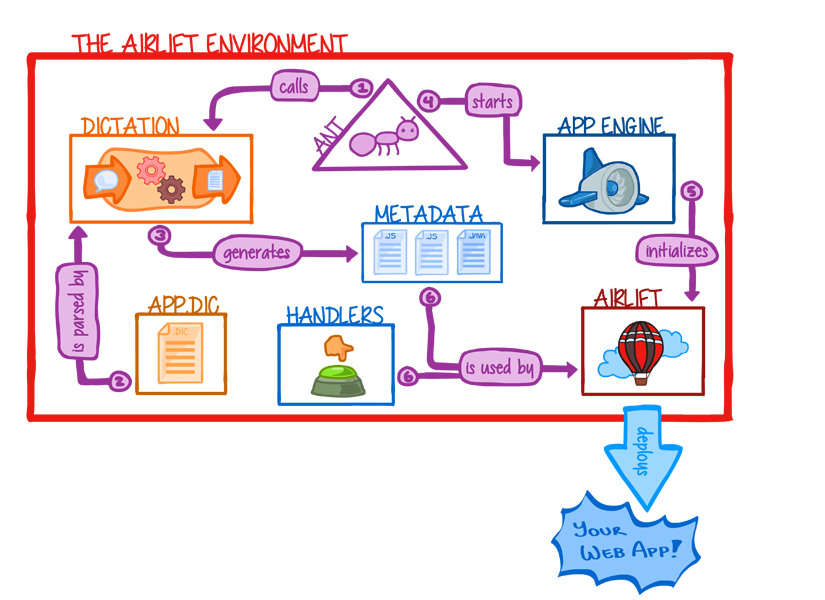
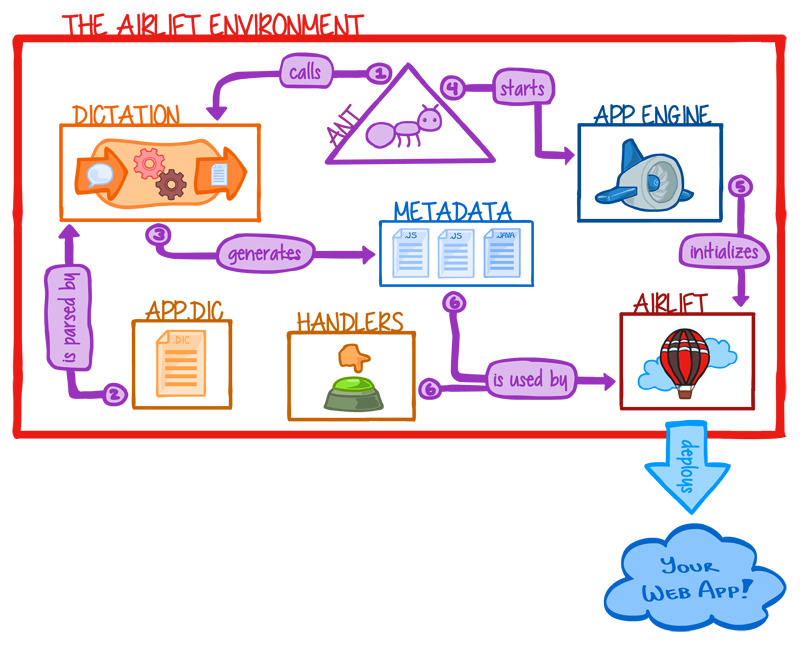
updated manual/getting_started

diff --git a/_site/manual/getting_started.html b/_site/manual/getting_started.html
@@ -82,7 +82,7 @@
 <li><strong>Infrastructure as a Service (IaaS)</strong> are the outsourced, on-demand resources that provide computing power through servers, storage, network, and operating systems.</li>
 </ul>
 
-<p><img alt='' src='/images/manual/CloudComputing_logos_Web.png' /></p>
+<p><img src='/images/manual/CloudComputing_logos_Web.png' alt='' /></p>
 
 <p>At the lowest level, IaaS provides computing power that one can rent. By outsourcing hardware, one does not need to fret over the investment, maintenance, power, and cooling of servers and networks. IaaS is how data is stored on the cloud. An example is Google Cloud Storage, which ensures that your data is safe, secure, and accessible. Since your Google Spreadsheets and Calendar reminders are stored online in the cloud, if something were to obliterate your laptop, thankfully, your data would not be lost.</p>
 
@@ -118,8 +118,6 @@
 <p id='A_Brief_History' />
 <h1 id='12_a_brief_history'>1.2 A Brief History</h1>
 
-<p>[Image to come: Illustration of frustrated Bediako.]</p>
-
 <p>Airlift originated as the solution to the frustrations of a developer. At the time, Java web application frameworks, such as Apache Struts, were not up to par with the developer&#8217;s needs. There had to be a better and faster way to build applications. He traded in Java for a dynamic programming language, JavaScript. He then began excitedly experimenting with Hannibn(?), capable of building web applications by using Java applications on servlets called Rhino. It didn&#8217;t take long for the developer to successfully utilize the benefits of this servlet, and he realized the potential of taking the entire platform and putting it on the cloud environment. No more would he need to defeat the obstacles of setting up his own server, buying his own hardware, and dealing with web hosting providers. No more would he need to wait ages for his server to be set up and for his applications to deploy. By hosting a platform on the cloud, all these hassles would be taken care of. Thus, Airlift was born!</p>
 
 <p>Airlift was designed to meet the following goals:</p>
@@ -133,8 +131,6 @@
 </ul>
 
 <p>Airlift, which satisfies the above specifications, is being successfully deployed today. Lucid Technics is currently building and adding to Airlift, expecting to release version 2.0 by the end of 2013. Future developments include making Dictation more robust and feature-rich, and continuing the tight integration to Google App Engine. Any developer interested in rapidly putting together scalable applications on Google App Engine should definitely check out Airlift, especially if they are interested in using JavaScript on server side. Lucid Technics aspires to make Airlift useful, reliable, and helpful to developers around the global network.</p>
-
-<p>[Image to come: Illustration of happy Bediako with Airlift.]</p>
 <p id='Airlift_Concepts' />
 <h1 id='13_airlift_concepts'>1.3 Airlift Concepts</h1>
 
@@ -145,14 +141,28 @@
 <p>This advanced code generation apparatus enables rapid deployment of web applications, thereby allowing one to spend less time on infrastructure code, and more time on business workflow requirements.</p>
 
 <h2 id='the_airlift_environment'>The Airlift Environment</h2>
+<img src='/images/manual/Airlift_Charts_Web.png' style='float:left' />
+<p>Airlift requires Java, Ant, and the App Engine SDK. Google App Engine supports apps written in several languages, but it only provides runtime environments for four: Java, Python, PHP, and Go. Google App Engine allows apps to be built in any JVM-based interpreter or compiler, such as JavaScript. Airlift incorporates <a href='https://developer.mozilla.org/en-US/docs/Rhino'>Rhino</a>, an open source JavaScript engine, to convert JavaScript scripts into Java classes. This way, any apps built with Airlift can be easily hosted and deployed on Google App Engine.</p>
+<br /><br /><br /><br /><br />
+<p>Airlift makes the web development process simpler. The developer only needs to write a dictation file describing business logic and the handlers. The Airlift framework takes care of the rest. When deploying a web app, the following steps are executed:</p>
 
-<p><img alt='' src='/images/manual/Airlift_Chart_Desktop_Web.png' /></p>
+<ol>
+<li>Ant acts as the orchestrator for the whole process. It first calls <a href='http://www.lucidtechnics.com/projects/dictation.html'>Dictation</a>, a language for describing business applications.</li>
 
-<p><img alt='' src='/images/manual/Airlift_Chart_with_GAE_Web.png' /></p>
+<li>app.dic, a document describing the business logic in English, is parsed by Dictation.</li>
 
-<p>The previous diagram shows how Airlift works with Google App Engine. Google App Engine supports apps written in several languages, but it only provides runtime environments for four: Java, Python, PHP, and Go. Google App Engine allows apps to be built in any JVM-based interpreter or compiler, such as JavaScriptIn order to run JavaScript. Airlift incorporates <a href='https://developer.mozilla.org/en-US/docs/Rhino'>Rhino</a>, an open source JavaScript engine,<br />Rhino = a JavaScript interpretter written in Java, to convert JavaScript scripts into Java classes. This way, any apps built with Airlift can be easily hosted and deployed on Google App Engine.</p>
+<li>Dictation converts the app.dic into a coding language and generates metadata: meta/r files, meta/a files, and AppProfile.java.</li>
 
-<p><img alt='' src='/images/manual/Airlift_Environment_Web.png' /></p>
+<li>Ant starts Google App Engine, running a local server.</li>
+
+<li>Google App Engine initializes Airlift, a .jar file which contains a servlet called RestServlet.</li>
+
+<li>Airlift deploys your web application, hosted on the cloud!</li>
+</ol>
+
+<p>The following diagram illustrates what the Airlift environment contains and how it deploys a web application.</p>
+
+<p><img src='/images/manual/Airlift_Environment_Web.png' alt='' /></p>
 
 <h2 id='javascript_functional_programming'>JavaScript Functional Programming</h2>
 

diff --git a/_site/manual/index.html b/_site/manual/index.html
@@ -87,7 +87,7 @@
 <li><strong>Infrastructure as a Service (IaaS)</strong> are the outsourced, on-demand resources that provide computing power through servers, storage, network, and operating systems.</li>
 </ul>
 
-<p><img alt='' src='/images/manual/CloudComputing_logos_Web.png' /></p>
+<p><img src='/images/manual/CloudComputing_logos_Web.png' alt='' /></p>
 
 <p>At the lowest level, IaaS provides computing power that one can rent. By outsourcing hardware, one does not need to fret over the investment, maintenance, power, and cooling of servers and networks. IaaS is how data is stored on the cloud. An example is Google Cloud Storage, which ensures that your data is safe, secure, and accessible. Since your Google Spreadsheets and Calendar reminders are stored online in the cloud, if something were to obliterate your laptop, thankfully, your data would not be lost.</p>
 
@@ -123,8 +123,6 @@
 <p id='A_Brief_History' />
 <h1 id='12_a_brief_history'>1.2 A Brief History</h1>
 
-<p>[Image to come: Illustration of frustrated Bediako.]</p>
-
 <p>Airlift originated as the solution to the frustrations of a developer. At the time, Java web application frameworks, such as Apache Struts, were not up to par with the developer&#8217;s needs. There had to be a better and faster way to build applications. He traded in Java for a dynamic programming language, JavaScript. He then began excitedly experimenting with Hannibn(?), capable of building web applications by using Java applications on servlets called Rhino. It didn&#8217;t take long for the developer to successfully utilize the benefits of this servlet, and he realized the potential of taking the entire platform and putting it on the cloud environment. No more would he need to defeat the obstacles of setting up his own server, buying his own hardware, and dealing with web hosting providers. No more would he need to wait ages for his server to be set up and for his applications to deploy. By hosting a platform on the cloud, all these hassles would be taken care of. Thus, Airlift was born!</p>
 
 <p>Airlift was designed to meet the following goals:</p>
@@ -138,8 +136,6 @@
 </ul>
 
 <p>Airlift, which satisfies the above specifications, is being successfully deployed today. Lucid Technics is currently building and adding to Airlift, expecting to release version 2.0 by the end of 2013. Future developments include making Dictation more robust and feature-rich, and continuing the tight integration to Google App Engine. Any developer interested in rapidly putting together scalable applications on Google App Engine should definitely check out Airlift, especially if they are interested in using JavaScript on server side. Lucid Technics aspires to make Airlift useful, reliable, and helpful to developers around the global network.</p>
-
-<p>[Image to come: Illustration of happy Bediako with Airlift.]</p>
 <p id='Airlift_Concepts' />
 <h1 id='13_airlift_concepts'>1.3 Airlift Concepts</h1>
 
@@ -150,14 +146,28 @@
 <p>This advanced code generation apparatus enables rapid deployment of web applications, thereby allowing one to spend less time on infrastructure code, and more time on business workflow requirements.</p>
 
 <h2 id='the_airlift_environment'>The Airlift Environment</h2>
+<img src='/images/manual/Airlift_Charts_Web.png' style='float:left' />
+<p>Airlift requires Java, Ant, and the App Engine SDK. Google App Engine supports apps written in several languages, but it only provides runtime environments for four: Java, Python, PHP, and Go. Google App Engine allows apps to be built in any JVM-based interpreter or compiler, such as JavaScript. Airlift incorporates <a href='https://developer.mozilla.org/en-US/docs/Rhino'>Rhino</a>, an open source JavaScript engine, to convert JavaScript scripts into Java classes. This way, any apps built with Airlift can be easily hosted and deployed on Google App Engine.</p>
+<br /><br /><br /><br /><br />
+<p>Airlift makes the web development process simpler. The developer only needs to write a dictation file describing business logic and the handlers. The Airlift framework takes care of the rest. When deploying a web app, the following steps are executed:</p>
 
-<p><img alt='' src='/images/manual/Airlift_Chart_Desktop_Web.png' /></p>
+<ol>
+<li>Ant acts as the orchestrator for the whole process. It first calls <a href='http://www.lucidtechnics.com/projects/dictation.html'>Dictation</a>, a language for describing business applications.</li>
 
-<p><img alt='' src='/images/manual/Airlift_Chart_with_GAE_Web.png' /></p>
+<li>app.dic, a document describing the business logic in English, is parsed by Dictation.</li>
 
-<p>The previous diagram shows how Airlift works with Google App Engine. Google App Engine supports apps written in several languages, but it only provides runtime environments for four: Java, Python, PHP, and Go. Google App Engine allows apps to be built in any JVM-based interpreter or compiler, such as JavaScriptIn order to run JavaScript. Airlift incorporates <a href='https://developer.mozilla.org/en-US/docs/Rhino'>Rhino</a>, an open source JavaScript engine,<br />Rhino = a JavaScript interpretter written in Java, to convert JavaScript scripts into Java classes. This way, any apps built with Airlift can be easily hosted and deployed on Google App Engine.</p>
+<li>Dictation converts the app.dic into a coding language and generates metadata: meta/r files, meta/a files, and AppProfile.java.</li>
 
-<p><img alt='' src='/images/manual/Airlift_Environment_Web.png' /></p>
+<li>Ant starts Google App Engine, running a local server.</li>
+
+<li>Google App Engine initializes Airlift, a .jar file which contains a servlet called RestServlet.</li>
+
+<li>Airlift deploys your web application, hosted on the cloud!</li>
+</ol>
+
+<p>The following diagram illustrates what the Airlift environment contains and how it deploys a web application.</p>
+
+<p><img src='/images/manual/Airlift_Environment_Web.png' alt='' /></p>
 
 <h2 id='javascript_functional_programming'>JavaScript Functional Programming</h2>
 

diff --git a/_site/api/index.html b/_site/api/index.html
@@ -1274,7 +1274,8 @@ Reduce boils down a collection of values into a single value. 'initialValue' is 
 <p> <label class='new'>Added in 2.0</label>
 Creates a java.util.Collection of all the resources<span style='background-color:red'>(?)</span> and returns an iterator over the collection.
 </p>
-<pre><code> &#39;Example code coming soon.&#39;</code></pre>
+<pre><code> var collect = require(&#39;airlift/da/collect&#39;)
+ &#39;Example code coming soon.&#39;</code></pre>
 <p id='Collect_collectBy' />
 <h3 id='collectbystring_attributename_object_value_object_config'>collectBy(String attributeName, Object value, Object config)</h3>
 
@@ -1398,7 +1399,8 @@ Returns true if item is not equal to null and is not equal to undefined.
  util.hasValue({})                       =&gt; true
  util.hasValue(-1)                       =&gt; true
  util.hasValue(true)                     =&gt; true
- util.hasValue(null);                    =&gt; false</code></pre>
+ util.hasValue(null);                    =&gt; false
+ util.hasValue(undefined);               =&gt; false</code></pre>
 <p id='Util_createErrorReporter' />
 <h3 id='createerrorreporter'>createErrorReporter()</h3>
 
@@ -1467,7 +1469,12 @@ Creates a timezone of location 'id', which can either be an abbreviation such as
 <p> <label class='new'>Added in 2.0</label>
 Formats a java.util.Date or Javascript Date into an easily readable string.
 </p>
-<pre><code> &#39;Example code coming soon.&#39;</code></pre>
+<pre><code> var date = new Date(1375110037982);
+ var formattedDate = util.formatDate(date, &#39;MMMM dd, yyyy&#39;);
+ =&gt; &quot;July 29, 2013&quot;
+
+ var formattedDate = util.formatDate(date, &#39;EEE, dd MMM yyyy hh:mm:ss zzz&#39;);
+ =&gt; &quot;Mon, 29 Jul 2013 11:00:37 EDT&quot;</code></pre>
 <p id='Util_adjustUTCDate' />
 <h3 id='adjustutcdatejavautildatedate_utcdate_javautiltimezonetimezone_timezone'>adjustUTCDate(java.util.Date|Date utcDate, java.util.Timezone|Timezone timezone)</h3>
 
@@ -2512,7 +2519,7 @@ Uses com.google.appengine.api.memcache.MemcacheServiceFactory to gets a handle t
 <h4 id='setter_functions'>Setter functions:</h4>
 <br /><table class='functions'>
   <tr>
-    <th class='head' style='width:300px'>Function()</th>
+    <th style='width:300px' class='head'>Function()</th>
     <th class='head'>Description</th>
   </tr>
   <tr class='even'>

diff --git a/_site/api/util.html b/_site/api/util.html
@@ -58,7 +58,8 @@ Returns true if item is not equal to null and is not equal to undefined.
  util.hasValue({})                       =&gt; true
  util.hasValue(-1)                       =&gt; true
  util.hasValue(true)                     =&gt; true
- util.hasValue(null);                    =&gt; false</code></pre>
+ util.hasValue(null);                    =&gt; false
+ util.hasValue(undefined);               =&gt; false</code></pre>
 <p id='Util_createErrorReporter' />
 <h3 id='createerrorreporter'>createErrorReporter()</h3>
 
@@ -127,7 +128,12 @@ Creates a timezone of location 'id', which can either be an abbreviation such as
 <p> <label class='new'>Added in 2.0</label>
 Formats a java.util.Date or Javascript Date into an easily readable string.
 </p>
-<pre><code> &#39;Example code coming soon.&#39;</code></pre>
+<pre><code> var date = new Date(1375110037982);
+ var formattedDate = util.formatDate(date, &#39;MMMM dd, yyyy&#39;);
+ =&gt; &quot;July 29, 2013&quot;
+
+ var formattedDate = util.formatDate(date, &#39;EEE, dd MMM yyyy hh:mm:ss zzz&#39;);
+ =&gt; &quot;Mon, 29 Jul 2013 11:00:37 EDT&quot;</code></pre>
 <p id='Util_adjustUTCDate' />
 <h3 id='adjustutcdatejavautildatedate_utcdate_javautiltimezonetimezone_timezone'>adjustUTCDate(java.util.Date|Date utcDate, java.util.Timezone|Timezone timezone)</h3>
 

diff --git a/_site/api/rest.html b/_site/api/rest.html
@@ -8,7 +8,8 @@
 <p> <label class='new'>Added in 2.0</label>
 Creates a java.util.Collection of all the resources<span style='background-color:red'>(?)</span> and returns an iterator over the collection.
 </p>
-<pre><code> &#39;Example code coming soon.&#39;</code></pre>
+<pre><code> var collect = require(&#39;airlift/da/collect&#39;)
+ &#39;Example code coming soon.&#39;</code></pre>
 <p id='Collect_collectBy' />
 <h3 id='collectbystring_attributename_object_value_object_config'>collectBy(String attributeName, Object value, Object config)</h3>
 

diff --git a/_site/api/web.html b/_site/api/web.html
@@ -156,7 +156,7 @@
 <h4 id='setter_functions'>Setter functions:</h4>
 <br /><table class='functions'>
   <tr>
-    <th class='head' style='width:300px'>Function()</th>
+    <th style='width:300px' class='head'>Function()</th>
     <th class='head'>Description</th>
   </tr>
   <tr class='even'>

diff --git a/_posts/manual/0100-01-01-getting_started.md b/_posts/manual/0100-01-01-getting_started.md
@@ -59,8 +59,6 @@ With cloud computing, one need not worry about the time it takes to implement an
 <p id="A_Brief_History"></p>
 # 1.2 A Brief History
 
-\[Image to come: Illustration of frustrated Bediako.\]
-
 Airlift originated as the solution to the frustrations of a developer.  At the time, Java web application frameworks, such as Apache Struts, were not up to par with the developer's needs.  There had to be a better and faster way to build applications.  He traded in Java for a dynamic programming language, JavaScript.  He then began excitedly experimenting with Hannibn(?), capable of building web applications by using Java applications on servlets called Rhino.  It didn't take long for the developer to successfully utilize the benefits of this servlet, and he realized the potential of taking the entire platform and putting it on the cloud environment.  No more would he need to defeat the obstacles of setting up his own server, buying his own hardware, and dealing with web hosting providers.  No more would he need to wait ages for his server to be set up and for his applications to deploy.  By hosting a platform on the cloud, all these hassles would be taken care of.  Thus, Airlift was born!
 
 Airlift was designed to meet the following goals:
@@ -70,8 +68,6 @@ Airlift was designed to meet the following goals:
 * It should be hosted on the cloud.  By taking advantages of what the cloud has to offer, it should do away with the frustrations of buying hardware, going to a web hosting provider, and waiting long periods of time while setting up a server.  Instead, it should be quickly and reliably scalable.
 
 Airlift, which satisfies the above specifications, is being successfully deployed today.  Lucid Technics is currently building and adding to Airlift, expecting to release version 2.0 by the end of 2013.  Future developments include making Dictation more robust and feature-rich, and continuing the tight integration to Google App Engine.  Any developer interested in rapidly putting together scalable applications on Google App Engine should definitely check out Airlift, especially if they are interested in using JavaScript on server side.  Lucid Technics aspires to make Airlift useful, reliable, and helpful to developers around the global network.
-
-\[Image to come: Illustration of happy Bediako with Airlift.\]
 
 <p id="Airlift_Concepts"></p>
 # 1.3 Airlift Concepts
@@ -84,14 +80,29 @@ This advanced code generation apparatus enables rapid deployment of web applicat
 
 ## The Airlift Environment
 
-![](/images/manual/Airlift_Chart_Desktop_Web.png)
+<img src="/images/manual/Airlift_Charts_Web.png" style="float:left">
 
-![](/images/manual/Airlift_Chart_with_GAE_Web.png)
+Airlift requires Java, Ant, and the App Engine SDK.  Google App Engine supports apps written in several languages, but it only provides runtime environments for four: Java, Python, PHP, and Go.  Google App Engine allows apps to be built in any JVM-based interpreter or compiler, such as JavaScript.  Airlift incorporates [Rhino](https://developer.mozilla.org/en-US/docs/Rhino), an open source JavaScript engine, to convert JavaScript scripts into Java classes.  This way, any apps built with Airlift can be easily hosted and deployed on Google App Engine.
 
-The previous diagram shows how Airlift works with Google App Engine.  Google App Engine supports apps written in several languages, but it only provides runtime environments for four: Java, Python, PHP, and Go.  Google App Engine allows apps to be built in any JVM-based interpreter or compiler, such as JavaScriptIn order to run JavaScript.  Airlift incorporates [Rhino](https://developer.mozilla.org/en-US/docs/Rhino), an open source JavaScript engine,  
-Rhino = a JavaScript interpretter written in Java, to convert JavaScript scripts into Java classes.  This way, any apps built with Airlift can be easily hosted and deployed on Google App Engine.
+<br>
+<br>
+<br>
+<br>
+<br>
+
+Airlift makes the web development process simpler.  The developer only needs to write a dictation file describing business logic and the handlers.  The Airlift framework takes care of the rest.  When deploying a web app, the following steps are executed:
+
+1.  Ant acts as the orchestrator for the whole process.  It first calls [Dictation](http://www.lucidtechnics.com/projects/dictation.html), a language for describing business applications.
+2.  app.dic, a document describing the business logic in English, is parsed by Dictation.
+3.  Dictation converts the app.dic into a coding language and generates metadata: meta/r files, meta/a files, and AppProfile.java.
+4.  Ant starts Google App Engine, running a local server.
+5.  Google App Engine initializes Airlift,  a .jar file which contains a servlet called RestServlet.
+6.  Airlift deploys your web application, hosted on the cloud!
+
+The following diagram illustrates what the Airlift environment contains and how it deploys a web application.
 
 ![](/images/manual/Airlift_Environment_Web.png)
+
 
 ## JavaScript Functional Programming
 

diff --git a/_posts/api/0100-03-05-util.md b/_posts/api/0100-03-05-util.md
@@ -89,6 +89,7 @@ Returns true if item is not equal to null and is not equal to undefined.
      util.hasValue(-1)                       => true
      util.hasValue(true)                     => true
      util.hasValue(null);                    => false
+     util.hasValue(undefined);               => false
 
 
 <p id="Util_createErrorReporter"></p>
@@ -178,7 +179,12 @@ Formats a java.util.Date or Javascript Date into an easily readable string.
 </p>
 
 
-     'Example code coming soon.'
+     var date = new Date(1375110037982);
+     var formattedDate = util.formatDate(date, 'MMMM dd, yyyy');
+     => "July 29, 2013"
+
+     var formattedDate = util.formatDate(date, 'EEE, dd MMM yyyy hh:mm:ss zzz');
+     => "Mon, 29 Jul 2013 11:00:37 EDT"
 
 
 <p id="Util_adjustUTCDate"></p>

diff --git a/_posts/api/0100-03-04-rest.md b/_posts/api/0100-03-04-rest.md
@@ -21,6 +21,7 @@ Creates a java.util.Collection of all the resources<span style="background-color
 </p>
 
 
+     var collect = require('airlift/da/collect')
      'Example code coming soon.'
 
 
